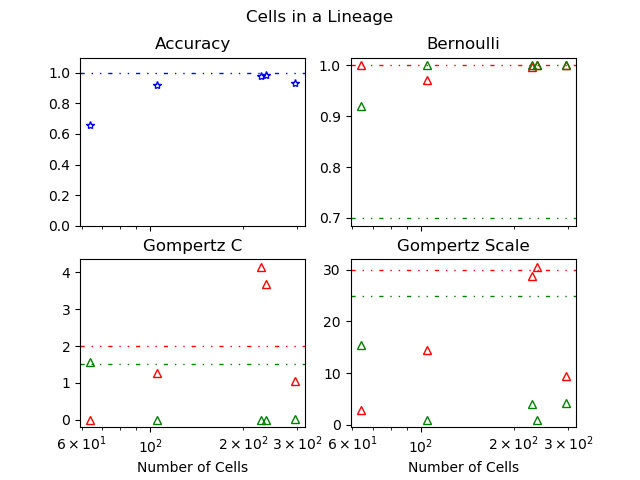
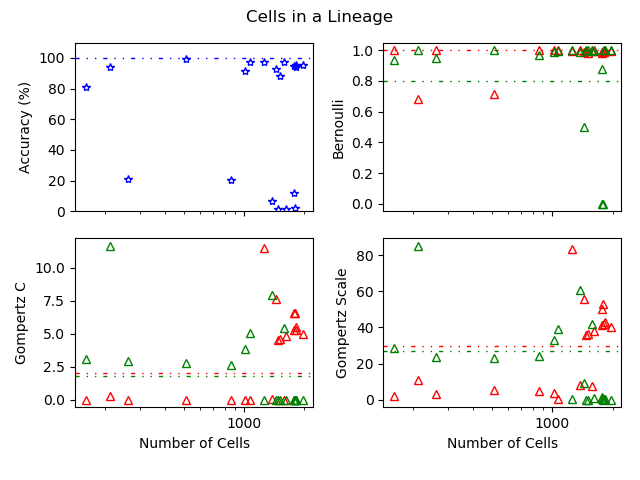
put the gomp analytical code to make figures

diff --git a/lineage/tHMM.py b/lineage/tHMM.py
@@ -27,34 +27,19 @@ class tHMM:
         numStates = self.numStates
         numLineages = self.numLineages
         temp_params = {"pi": np.ones((numStates)) / numStates, # inital state distributions [K] initialized to 1/K
-<<<<<<< HEAD
-                       "T": np.ones((numStates, numStates)) / numStates} # state transition matrix [KxK] initialized to 1/K
-        if self.FOM=='G':
-            temp_params["E"] = np.ones((numStates, 3)) # sequence of emission likelihood distribution parameters [Kx3]
-                       
-=======
+
                        "T": np.ones((numStates, numStates)) / numStates, # state transition matrix [KxK] initialized to 1/K
                        "E": np.ones((numStates, 3))} # sequence of emission likelihood distribution parameters [Kx3]
         if self.FOM=='G':
->>>>>>> master
             for state_j in range(numStates):
                 temp_params["E"][state_j,0] = 1/numStates # initializing all Bernoulli p parameters to 1/numStates
                 temp_params["E"][state_j,1] = 2.0*(1+np.random.uniform()) # initializing all Gompertz c parameters to 2
                 temp_params["E"][state_j,2] = 50.0*(1+np.random.uniform()) # initializing all Gompoertz s(cale) parameters to 50
-<<<<<<< HEAD
-        
-        elif self.FOM=='E':
-            temp_params["E"] = np.ones((numStates, 2)) # sequence of emission likelihood distribution parameters [Kx3]
-                       
-            for state_j in range(numStates):
-                temp_params["E"][state_j,0] = 1/numStates # initializing all Bernoulli p parameters to 1/numStates
-                temp_params["E"][state_j,1] = 50.0*(1+np.random.uniform()) # initializing all exponential beta parameters to be 50
-=======
+
         elif self.FOM=='E':
              for state_j in range(numStates):
                 temp_params["E"][state_j,0] = 1/numStates # initializing all Bernoulli p parameters to 1/numStates
                 temp_params["E"][state_j,1] = 50.0*(1+np.random.uniform()) # initializing all Exponential beta parameters to 50
->>>>>>> master
 
         for lineage_num in range(numLineages): # for each lineage in our population
             paramlist.append(temp_params.copy()) # create a new dictionary holding the parameters and append it
@@ -167,10 +152,7 @@ class tHMM:
                 
                 for cell in lineage: # for each cell in the lineage
                     current_cell_idx = lineage.index(cell) # get the index of the current cell
-<<<<<<< HEAD
-                    EL_array[current_cell_idx, state_k] = temp_g *temp_b
 
-=======
                     if self.FOM=='G':
                         temp_b = sp.bernoulli.pmf(k=cell.fate, p=k_bern) # bernoulli likelihood
                         temp_g = sp.gompertz.pdf(x=cell.tau, c=k_gomp_c, scale=k_gomp_s) # gompertz likelihood
@@ -180,6 +162,5 @@ class tHMM:
                         temp_b = sp.bernoulli.pmf(k=cell.fate, p=k_bern) # bernoulli likelihood
                         temp_beta = sp.expon.pdf(x=cell.tau, scale=k_expon_beta) # gompertz likelihood
                         EL_array[current_cell_idx, state_k] = temp_b * temp_beta
->>>>>>> master
             EL.append(EL_array) # append the EL_array for each lineage
         return EL

diff --git a/Figure1_2Lineage.py b/Figure1_2Lineage.py
@@ -5,17 +5,6 @@ matplotlib.use('Agg')
 from matplotlib import pyplot as plt
 from matplotlib.font_manager import FontProperties
 
-
-from lineage.BaumWelch import fit
-from lineage.DownwardRecursion import get_root_gammas, get_nonroot_gammas
-from lineage.Viterbi import get_leaf_deltas, get_nonleaf_deltas, Viterbi
-from lineage.UpwardRecursion import get_leaf_Normalizing_Factors, get_leaf_betas, get_nonleaf_NF_and_betas
-from lineage.tHMM import tHMM
-from lineage.tHMM_utils import max_gen, get_gen, get_parents_for_level
-from lineage.Lineage_utils import remove_NaNs, get_numLineages, init_Population
-from lineage.Lineage_utils import generatePopulationWithTime as gpt
-from lineage.CellNode import CellNode
-
 from Lin_shak import Lin_shak
 from Analyze import Analyze
 from Accuracy import Accuracy
@@ -23,10 +12,10 @@ from Matplot_gen import Matplot_gen
 
 ################ Number of cell in a single lineage
 
-T_MAS = 65
-T_2 = 40
+T_MAS = 100
+T_2 = 81
 times = range(1,2) 
-reps = 5
+reps = 20
 switchT = 25
 
 MASinitCells = [1]
@@ -34,9 +23,9 @@ MASlocBern = [0.99999999999]
 MAScGom = [2]
 MASscaleGom = [30]
 initCells2 = [1]
-locBern2 = [0.7] #0.7
-cGom2 = [1.5] #1.5
-scaleGom2 = [25] #25
+locBern2 = [0.8] #0.7
+cGom2 = [1.8] #1.5
+scaleGom2 = [27] #25
 
 numStates = 2
 
@@ -65,8 +54,10 @@ for experimentTime in times: #a pop with num number of lineages
         print('Rep:', rep)       
         
         X, masterLineage, newLineage = Lin_shak(T_MAS, MASinitCells, MASlocBern, MAScGom, MASscaleGom, T_2, initCells2, locBern2, cGom2, scaleGom2) 
-        
-        deltas, state_ptrs, all_states, tHMMobj = Analyze(X, numStates)
+        while len(newLineage) > 2000:
+            X, masterLineage, newLineage = Lin_shak(T_MAS, MASinitCells, MASlocBern, MAScGom, MASscaleGom, T_2, initCells2, locBern2, cGom2, scaleGom2)
+            
+        deltas, state_ptrs, all_states, tHMMobj, NF, LL = Analyze(X, numStates)
 
         acc_h3 = []
         cell_h3 = []
@@ -82,7 +73,11 @@ for experimentTime in times: #a pop with num number of lineages
                      
             T,E,pi,state_1,state_2,accuracy,lineage = Accuracy(tHMMobj, lin, numStates, masterLineage, newLineage, all_states)
             
-            acc_h3.append(accuracy)
+            acc_h3.append(accuracy*100)
+            print('pi',pi)
+            print('T',T)
+            print('accuracy:',accuracy)
+            print('MAS, 2nd lin:',len(masterLineage),len(newLineage)-len(masterLineage))
             cell_h3.append(len(lineage))
             print('h3',cell_h3)
             bern_MAS_h3.append(E[state_1,0])
@@ -115,4 +110,5 @@ for experimentTime in times: #a pop with num number of lineages
     scaleGom_2_h1.extend(scaleGom_2_h2)
 
 x=cell_h1
+print(acc_h1)
 Matplot_gen(x,acc_h1,bern_MAS_h1,bern_2_h1,MASlocBern,locBern2,cGom_MAS_h1,cGom_2_h1,MAScGom,           cGom2,scaleGom_MAS_h1,scaleGom_2_h1,MASscaleGom,scaleGom2, xlabel = 'Number of Cells', title = 'Cells in a Lineage', save_name = 'Figure1.png')

diff --git a/lineage/CellNode.py b/lineage/CellNode.py
@@ -7,11 +7,8 @@ from scipy import optimize, stats as sp
 
 class CellNode:
     """ Each cell in our tree will consist of a node containing these traits. """
-<<<<<<< HEAD
-    def __init__(self, gen=1, linID=0, startT=0, endT=float('nan'), fate=None, left=None, right=None, parent=None):
-=======
+
     def __init__(self, gen=1, linID=0, startT=0, endT=float('nan'), fate=None, left=None, right=None, parent=None, trackID=None, true_state=None):
->>>>>>> master
         ''' Instantiates a cell node.'''
         self.gen = gen # the generation of the cell, root cells are of generation 1, each division adds 1 to the previous generation
         self.linID = linID # the lineage identity of the cell, keeps track of what lineage a cell belongs to
@@ -23,11 +20,9 @@ class CellNode:
         self.left = left # the left daughter of the cell, either returns a CellNode or NoneType object
         self.right = right # the right daughter of the cell, either returns a CellNode or NoneType object
         self.parent = parent # the parent of the cell, returns a CellNode object (except at the root node)
-<<<<<<< HEAD
-=======
+
         self.trackID = trackID # ID (integer) of the cell used during image tracking
         self.true_state = true_state # indicates whether cell is PC9 (0) or H1299 (1)
->>>>>>> master
 
     def isParent(self):
         """ Return true if the cell has at least one daughter. """
@@ -72,26 +67,19 @@ class CellNode:
         self.endT = endT    # mark endT
         self.calcTau()      # calculate Tau when cell dies
 
-    def divide(self, endT):
+    def divide(self, endT, trackID_d1=None, trackID_d2=None):
         """ Cell life ends through division. """
         self.endT = endT
         self.fate = True    # division
         self.calcTau()      # calculate Tau when cell dies
 
         if self.isRootParent():
-<<<<<<< HEAD
-            self.left = CellNode(gen=self.gen+1, linID=self.linID, startT=endT, parent=self)
-            self.right = CellNode(gen=self.gen+1, linID=self.linID, startT=endT, parent=self)
-        else:
-            self.left = CellNode(gen=self.gen+1, linID=self.linID, startT=endT, parent=self)
-            self.right = CellNode(gen=self.gen+1, linID=self.linID, startT=endT, parent=self)
-=======
+
             self.left = CellNode(gen=self.gen+1, trackID=trackID_d1, linID=self.linID, startT=endT, parent=self, true_state=self.true_state)
             self.right = CellNode(gen=self.gen+1, trackID=trackID_d2, linID=self.linID, startT=endT, parent=self, true_state=self.true_state)
         else:
             self.left = CellNode(gen=self.gen+1, trackID=trackID_d1, linID=self.linID, startT=endT, parent=self, true_state=self.true_state)
             self.right = CellNode(gen=self.gen+1, trackID=trackID_d2, linID=self.linID, startT=endT, parent=self, true_state=self.true_state)
->>>>>>> master
 
         return (self.left, self.right)
 

diff --git a/Matplot_gen.py b/Matplot_gen.py
@@ -4,6 +4,7 @@ import matplotlib
 matplotlib.use('Agg')
 from matplotlib import pyplot as plt
 from matplotlib.font_manager import FontProperties
+import matplotlib.ticker
 
 
 from lineage.BaumWelch import fit
@@ -22,16 +23,17 @@ def Matplot_gen(x,acc_h1,bern_MAS_h1,bern_2_h1,MASlocBern,locBern2,cGom_MAS_h1,c
     print(max(x))
     fig, axs = plt.subplots(nrows=2, ncols=2, sharex=True)
     ax = axs[0,0]
-    ax.set_ylim(0,1.1)
+    ax.set_ylim(0,110)
     l1 = ax.errorbar(x, acc_h1, fmt='o', c='b',marker="*",fillstyle='none', label = 'Accuracy')
-    ax.axhline(y=1, linestyle = (0, (3, 5, 1, 5, 1, 5)), linewidth=1, color='b',)
-    ax.set_title('Accuracy')
-    #ax.locator_params(nbins=4)
+    ax.axhline(y=100, linestyle = (0, (3, 5, 1, 5, 1, 5)), linewidth=1, color='b',)
+    ax.set_ylabel('Accuracy (%)',rotation=90)
+    vals = ax.get_yticks()
+    #ax.set_yticklabels([str(int(x)) + '%' for x in vals])
 
     ax = axs[0,1]
     l2 = ax.errorbar(x, bern_MAS_h1, fmt='o', c='r',marker="^",fillstyle='none', label = 'State 1')
     l3 = ax.errorbar(x, bern_2_h1, fmt='o', c='g',marker="^",fillstyle='none', label = 'State 2')
-    ax.set_title('Bernoulli')
+    ax.set_ylabel('Bernoulli', rotation=90)
     ax.axhline(y= MASlocBern, linestyle = (0, (3, 5, 1, 5, 1, 5)), linewidth=1, color='r')
     ax.axhline(y=locBern2, linestyle = (0, (3, 5, 1, 5, 1, 5)), linewidth=1, color='g')
 
@@ -42,7 +44,9 @@ def Matplot_gen(x,acc_h1,bern_MAS_h1,bern_2_h1,MASlocBern,locBern2,cGom_MAS_h1,c
     ax.errorbar(x,cGom_2_h1, fmt='o',c='g',marker="^",fillstyle='none', label = 'State 2')
     ax.axhline(y=MAScGom, linestyle = (0, (3, 5, 1, 5, 1, 5)), linewidth=1, color='r')
     ax.axhline(y=cGom2, linestyle = (0, (3, 5, 1, 5, 1, 5)), linewidth=1, color='g')
-    ax.set_title('Gompertz C')
+    ax.set_ylabel('Gompertz C',rotation=90)
+    ax.get_xaxis().set_major_formatter(matplotlib.ticker.ScalarFormatter())
+    ax.get_xaxis().set_minor_formatter(matplotlib.ticker.NullFormatter())
 
 
     ax = axs[1,1]
@@ -52,9 +56,11 @@ def Matplot_gen(x,acc_h1,bern_MAS_h1,bern_2_h1,MASlocBern,locBern2,cGom_MAS_h1,c
     ax.errorbar(x,scaleGom_2_h1, fmt='o',c='g',marker="^",fillstyle='none', label = 'State 2')
     ax.axhline(y=MASscaleGom, linestyle = (0, (3, 5, 1, 5, 1, 5)), linewidth=1, color='r')
     ax.axhline(y=scaleGom2, linestyle = (0, (3, 5, 1, 5, 1, 5)), linewidth=1, color='g')
-    ax.set_title('Gompertz Scale')
+    ax.set_ylabel('Gompertz Scale',rotation=90)
+    ax.get_xaxis().set_major_formatter(matplotlib.ticker.ScalarFormatter())
+    ax.get_xaxis().set_minor_formatter(matplotlib.ticker.NullFormatter())
 
-
+    fig.tight_layout(rect=[0, 0.03, 1, 0.95])
     fig.suptitle(title)
     fig.savefig(save_name)
 

diff --git a/lineage/tests/test_tHMM.py b/lineage/tests/test_tHMM.py
@@ -461,11 +461,8 @@ class TestModel(unittest.TestCase):
             true_state_holder[ii]=cell.true_state
 
         X = remove_NaNs(newLineage)
-<<<<<<< HEAD
-        tHMMobj = tHMM(X, numStates=numStates) # build the tHMM class with X
-=======
+
         tHMMobj = tHMM(X, numStates=numStates, FOM='G') # build the tHMM class with X
->>>>>>> master
         fit(tHMMobj, max_iter=500, verbose=True)
         for num in range(tHMMobj.numLineages):
             print("\n")
@@ -485,11 +482,6 @@ class TestModel(unittest.TestCase):
             print(all_states[num])
             print(true_state_holder)
             print(1 - (sum(np.abs(np.subtract(all_states[num],true_state_holder)))/len(true_state_holder)))
-
-<<<<<<< HEAD
-            
-=======
->>>>>>> master
             
     def test_Baum_Welch_2(self):
         # creating a heterogeneous tree
@@ -525,11 +517,8 @@ class TestModel(unittest.TestCase):
             true_state_holder[ii]=cell.true_state
             
         X = remove_NaNs(LINEAGE)
-<<<<<<< HEAD
-        tHMMobj = tHMM(X, numStates=numStates) # build the tHMM class with X
-=======
+
         tHMMobj = tHMM(X, numStates=numStates, FOM='G') # build the tHMM class with X
->>>>>>> master
         fit(tHMMobj, max_iter=100, verbose=False)
         for num in range(tHMMobj.numLineages):
             print("\n")
@@ -548,7 +537,3 @@ class TestModel(unittest.TestCase):
             print(all_states[num])
             print(true_state_holder)  
             print(1 - (sum(np.abs(np.subtract(all_states[num],true_state_holder)))/len(true_state_holder)))
-<<<<<<< HEAD
-        
-=======
->>>>>>> master

diff --git a/lineage/Lineage_utils.py b/lineage/Lineage_utils.py
@@ -111,21 +111,10 @@ def bernoulliParameterEstimatorAnalytical(X):
 
     return result
 
-<<<<<<< HEAD
-=======
-
->>>>>>> master
 def exponentialAnalytical(X):
     '''Estimates the Exponential beta parameter for a given population using MLE analytically'''
      # create list of all our taus
-    tau_holder = []
-<<<<<<< HEAD
-    for cell in X: # go through every cell in the population
-        if not cell.isUnfinished(): # if the cell has lived a meaningful life and matters
-            tau_holder.append(cell.tau) # append the cell lifetime
 
-    result = np.mean(tau_holder)
-=======
     tauFake_holder = []
     for cell in X: # go through every cell in the population
         if not cell.isUnfinished(): # if the cell has lived a meaningful life and matters
@@ -134,7 +123,6 @@ def exponentialAnalytical(X):
             tauFake_holder.append(cell.tauFake)
 
     result =  (sum(tau_holder) + sum(tauFake_holder)) / len(tau_holder)
->>>>>>> master
     
     return result
 

diff --git a/lineage/BaumWelch.py b/lineage/BaumWelch.py
@@ -4,11 +4,8 @@ import numpy as np
 from .tHMM_utils import max_gen, get_gen, get_daughters
 from .DownwardRecursion import get_root_gammas, get_nonroot_gammas
 from .UpwardRecursion import get_leaf_Normalizing_Factors, get_leaf_betas, get_nonleaf_NF_and_betas, calculate_log_likelihood, get_beta_parent_child_prod, beta_parent_child_func
-<<<<<<< HEAD
-from .Lineage_utils import bernoulliParameterEstimatorAnalytical, gompertzAnalytical 
-=======
+
 from .Lineage_utils import bernoulliParameterEstimatorAnalytical, gompertzAnalytical, exponentialAnalytical
->>>>>>> master
 
 def zeta_parent_child_func(node_parent_m_idx, node_child_n_idx, state_j, state_k, lineage, beta_array, MSD_array, gamma_array, T):
     '''calculates the zeta value that will be used to fill the transition matrix in baum welch'''
